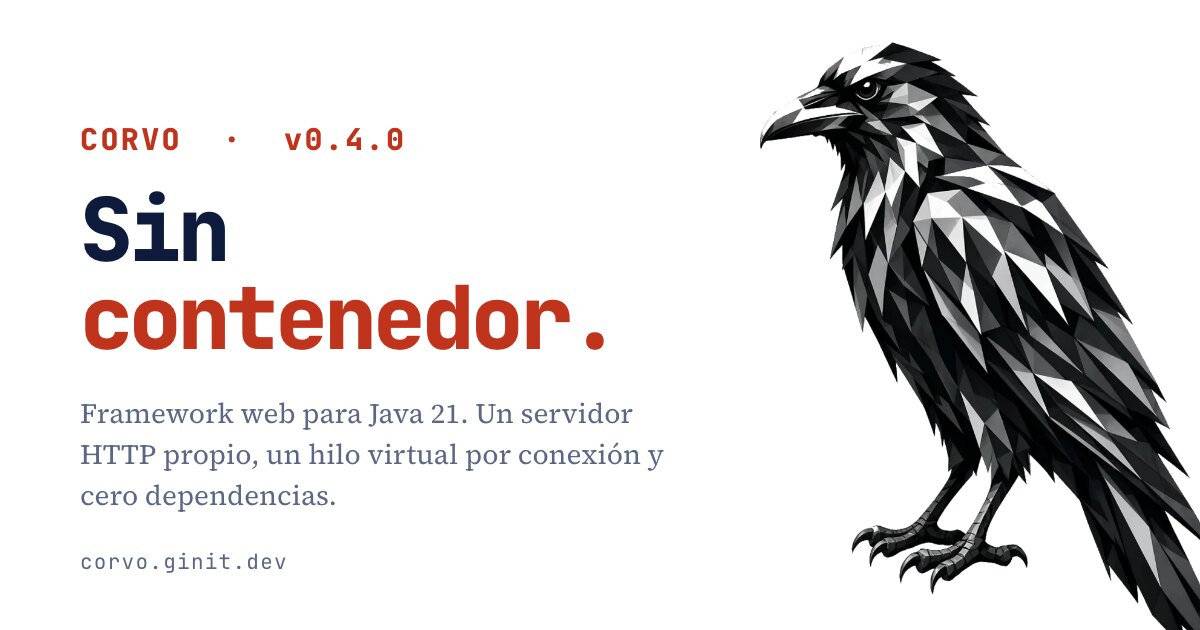
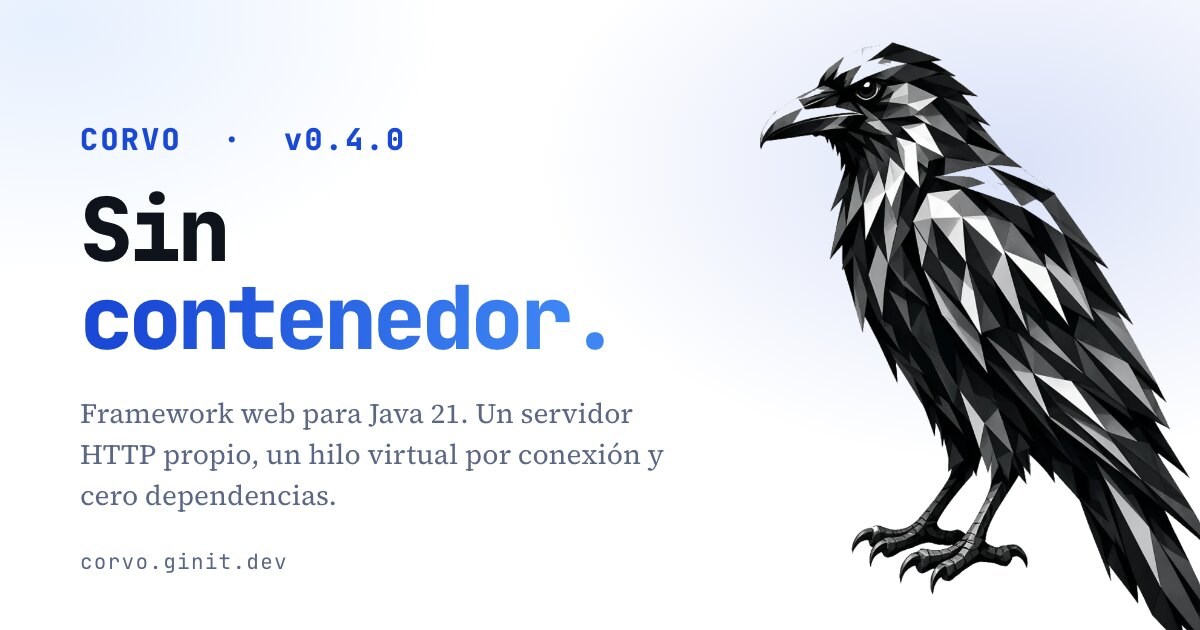
feat(sitio): color en toda la página, acento cobalto y el cuervo bien posado
El color
--------
Cobalto: #1a49d6 en claro, #5b8dff en oscuro. Y un --acento-2 (#3f86f5 / #7fb4ff) que
existe solo para los degradados — un degradado de un color a sí mismo aclarado se ve
sucio; con dos tonos vecinos de verdad el titular tiene profundidad.

La tinta baja de azul marino (#0e1b3d) a casi negro (#0f141c). Con un acento azul, una
tinta azul marino se le confunde y el acento deja de acentuar.

7,08x sobre blanco y 6,70x sobre negro. --acento-2 se queda en 3,54x, que solo basta
para texto grande: por eso aparece únicamente en degradados sobre el titular, las cifras
y reglas decorativas, nunca en texto corrido.

Que la página no sea blanco sobre blanco
----------------------------------------
Halo tras el ave, titular y cifras en degradado, botón lleno con sombra del propio color
—una sombra gris debajo de un botón de color lo ensucia—, y la barra con un filo teñido.
Todo se apoya en los dos tokens: ninguna regla trae su color escrito a mano.

El borde recto que se veía
--------------------------
El recorte horizontal pasa de .portada a html. En la portada, el corte caía justo en el
borde de .marco y dejaba una línea recta atravesando el ave y el degradado. Por lo mismo
el halo sale a ancho de ventana en vez de quedarse dentro del marco: si se queda dentro,
su borde cae donde acaba el contenido y se ve el canto del degradado.

clip y no hidden, arriba igual que abajo: hidden haría de la raíz un contenedor de
desplazamiento y rompería el sticky de la barra.
[…]

diff --git a/frontend/src/estilo.css b/frontend/src/estilo.css
@@ -22,22 +22,25 @@
 :root {
   --papel: #ffffff;
   --panel: #f4f6fa;
-  --tinta: #0e1b3d;
+  --tinta: #0f141c;
   --apagado: #5b6784;
-  --acento: #c0341d;
-  --linea: rgba(14, 27, 61, .14);
+  --acento: #1a49d6;
+  /* El segundo acento existe para los degradados. Un degradado de un color a sí mismo
+     aclarado se ve sucio; con dos tonos vecinos de verdad el titular tiene profundidad. */
+  --acento-2: #3f86f5;
+  --linea: rgba(15, 20, 28, .14);
   --mono: "JetBrains Mono", ui-monospace, SFMono-Regular, Menlo, monospace;
   --serif: "Source Serif", Georgia, "Times New Roman", serif;
 }
 @media (prefers-color-scheme: dark) {
   :root:not([data-tema="claro"]) {
     --papel: #000000; --panel: #0d1424; --tinta: #eaf0fa;
-    --apagado: #93a0bc; --acento: #ff6a4d; --linea: rgba(234, 240, 250, .16);
+    --apagado: #93a0bc; --acento: #5b8dff; --acento-2: #7fb4ff; --linea: rgba(234, 240, 250, .16);
   }
 }
 :root[data-tema="oscuro"] {
   --papel: #000000; --panel: #0d1424; --tinta: #eaf0fa;
-  --apagado: #93a0bc; --acento: #ff6a4d; --linea: rgba(234, 240, 250, .16);
+  --apagado: #93a0bc; --acento: #5b8dff; --acento-2: #7fb4ff; --linea: rgba(234, 240, 250, .16);
 }
 
 * { box-sizing: border-box; }
@@ -146,20 +149,27 @@ pre { overflow-x: auto; max-width: 100%; }
 /* Grabado de François-Nicolas Martinet (1731-1800), lámina 495 de la Histoire Naturelle des
    Oiseaux de Buffon. Dominio público. Va como máscara sobre var(--tinta): un solo archivo
    sirve para claro y para oscuro porque el color lo pone el tema. */
-/* overflow-x: clip y no hidden: `hidden` convertiría la portada en un contenedor de
-   desplazamiento y rompería el `position: sticky` de la barra. `clip` recorta y ya.
-   Hace falta porque el ave sobresale a propósito por la derecha, y sin recorte esos
-   píxeles ensanchan el documento entero en el teléfono. */
-.portada { position: relative; overflow-x: clip; overflow-y: visible; }
+/* El recorte se hace arriba del todo, en la raíz, y no en la portada.
+
+   Recortando en la portada, el corte caía justo en el borde de `.marco` —a 78 rem del
+   centro— y dejaba una línea recta y visible atravesando el ave y el degradado. Aquí el
+   documento no se ensancha igual, y no hay ningún canto que se vea.
+
+   `clip` y no `hidden`: `hidden` convertiría la raíz en contenedor de desplazamiento y
+   rompería el `position: sticky` de la barra. */
+html { overflow-x: clip; }
+.portada { position: relative; }
 
 /* La escena: aquí vive la perspectiva, y el hijo es el que gira dentro de ella. Si la
    perspectiva se pusiera en el mismo elemento que rota, el giro sería plano — una perspective
    solo afecta a los descendientes. */
 .cuervo {
   position: absolute;
-  right: -1.5rem;
-  top: 1.5rem;
-  width: clamp(14rem, 26vw, 23rem);
+  right: 0;
+  top: 1rem;
+  /* Dentro del ancho del contenido, no sobresaliendo: así no hay nada que recortar y el ave
+     no aparece rebanada por la derecha. */
+  width: clamp(15rem, 31vw, 27rem);
   perspective: 900px;
   pointer-events: none;
   z-index: 0;
@@ -180,11 +190,32 @@ pre { overflow-x: auto; max-width: 100%; }
                       color-mix(in srgb, var(--tinta) 30%, transparent));
   /* La cola llega justo al borde inferior del grabado, así que sin esto el ave termina en un
      corte recto. Se disuelve en el papel y parece que sigue más abajo. */
-  -webkit-mask-image: linear-gradient(to bottom, #000 78%, transparent 99%);
-          mask-image: linear-gradient(to bottom, #000 78%, transparent 99%);
+  -webkit-mask-image: linear-gradient(to bottom, #000 82%, transparent 100%);
+          mask-image: linear-gradient(to bottom, #000 82%, transparent 100%);
   animation: cuervo-entra 1s cubic-bezier(.16, 1, .3, 1) both,
              cuervo-flota 7s ease-in-out 1s infinite;
 }
+
+/* El suelo. Una elipse difuminada bajo las patas: sin ella el ave está pegada al papel y
+   flota; con ella se posa. Va detrás de la figura y se estrecha cuando el ave sube en la
+   flotación, que es lo que hace una sombra de verdad. */
+.cuervo::after {
+  content: "";
+  position: absolute;
+  left: 22%; right: 14%;
+  bottom: 4%;
+  height: 2.6rem;
+  z-index: -1;
+  border-radius: 50%;
+  background: radial-gradient(closest-side,
+    color-mix(in srgb, var(--tinta) 26%, transparent) 0%, transparent 78%);
+  animation: cuervo-sombra 7s ease-in-out 1s infinite;
+}
+@keyframes cuervo-sombra {
+  0%, 100% { transform: scale(1); opacity: 1; }
+  50%      { transform: scale(.9); opacity: .72; }
+}
+@media (prefers-reduced-motion: reduce) { .cuervo::after { animation: none; } }
 
 /* Entra planeando: baja un poco, se endereza y se acerca. Un fade suelto no dice nada; esto
    sugiere que el ave se posa. */
@@ -205,13 +236,16 @@ pre { overflow-x: auto; max-width: 100%; }
    existir solo en pantallas grandes. */
 @media (max-width: 62rem) {
   .cuervo {
-    right: -8%;
+    right: -6%;
     top: -1rem;
-    width: 58%;
+    width: 60%;
     opacity: .13;
     z-index: -1;
   }
   .cuervo-figura { filter: none; }
+  .cuervo::after { display: none; }   /* una marca de agua no proyecta sombra */
+  /* Aquí sí sobresale a propósito, y aquí sí se recorta. */
+  .portada { overflow-x: clip; overflow-y: visible; }
   .portada > :not(.cuervo) { position: relative; z-index: 1; }
 }
 
@@ -411,28 +445,50 @@ ul.prosa li { margin-bottom: .45rem; }
 
 /* ─── terminal ─── */
 
-.terminal { border: 1px solid var(--linea); border-radius: 6px; overflow: hidden;
-  background: #0b1020; margin: 2.2rem 0 1rem; max-width: 46rem; }
+/* La terminal tenía sus seis colores escritos a mano y salía negra también en el tema claro:
+   un agujero oscuro en medio de una página blanca. Ahora usa sus propios tokens, redefinidos
+   en cada tema como el resto de la hoja. */
+.terminal {
+  --term-fondo: #f7f9fc;
+  --term-barra: #eaeef6;
+  --term-borde: rgba(15, 20, 28, .12);
+  --term-texto: #2b3653;
+  --term-orden: #0f141c;
+  --term-tenue: #616c87;
+
+  border: 1px solid var(--term-borde); border-radius: 6px; overflow: hidden;
+  background: var(--term-fondo); margin: 2.2rem 0 1rem; max-width: 46rem;
+}
+@media (prefers-color-scheme: dark) {
+  :root:not([data-tema="claro"]) .terminal {
+    --term-fondo: #0b1020; --term-barra: #141a2e; --term-borde: rgba(255, 255, 255, .1);
+    --term-texto: #c8d2e8; --term-orden: #eaf0fa; --term-tenue: #7c88a8;
+  }
+}
+:root[data-tema="oscuro"] .terminal {
+  --term-fondo: #0b1020; --term-barra: #141a2e; --term-borde: rgba(255, 255, 255, .1);
+  --term-texto: #c8d2e8; --term-orden: #eaf0fa; --term-tenue: #7c88a8;
+}
 .terminal-barra { display: flex; align-items: center; gap: .8rem;
-  padding: .5rem .8rem; background: #141a2e; border-bottom: 1px solid rgba(255,255,255,.08); }
+  padding: .5rem .8rem; background: var(--term-barra); border-bottom: 1px solid var(--term-borde); }
 .terminal-barra .luces { display: flex; gap: .35rem; }
-.terminal-barra .luces i { width: 10px; height: 10px; border-radius: 50%; background: #3a4159; }
+.terminal-barra .luces i { width: 10px; height: 10px; border-radius: 50%; background: var(--term-tenue); }
 .terminal-barra .luces i:nth-child(1) { background: #ff5f57; }
 .terminal-barra .luces i:nth-child(2) { background: #febc2e; }
 .terminal-barra .luces i:nth-child(3) { background: #28c840; }
-.terminal-barra .ruta { flex: 1; font-family: var(--mono); font-size: .72rem; color: #7c88a8; }
+.terminal-barra .ruta { flex: 1; font-family: var(--mono); font-size: .72rem; color: var(--term-tenue); }
 .terminal-barra button { font-family: var(--mono); font-size: .66rem; letter-spacing: .08em;
-  text-transform: uppercase; border: 1px solid rgba(255,255,255,.16); background: transparent;
-  color: #7c88a8; padding: .22rem .55rem; border-radius: 4px; cursor: pointer; }
-.terminal-barra button:hover:not(:disabled) { color: #fff; border-color: rgba(255,255,255,.4); }
+  text-transform: uppercase; border: 1px solid var(--term-borde); background: transparent;
+  color: var(--term-tenue); padding: .22rem .55rem; border-radius: 4px; cursor: pointer; }
+.terminal-barra button:hover:not(:disabled) { color: var(--acento); border-color: var(--acento); }
 .terminal-barra button:disabled { opacity: .4; cursor: default; }
 
 .terminal-pantalla { margin: 0; padding: 1rem 1.1rem; min-height: 17rem;
   font-family: var(--mono); font-size: .78rem; line-height: 1.75;
-  color: #c8d2e8; white-space: pre-wrap; word-break: break-word; }
-.linea-orden { color: #eaf0fa; }
+  color: var(--term-texto); white-space: pre-wrap; word-break: break-word; }
+.linea-orden { color: var(--term-orden); }
 .linea-orden .senal { color: var(--acento); font-weight: 700; }
-.linea-salida { color: #7c88a8; }
+.linea-salida { color: var(--term-tenue); }
 .cursor { display: inline-block; width: .55em; height: 1.05em; background: var(--acento);
   vertical-align: text-bottom; margin-left: 1px; }
 @media (prefers-reduced-motion: no-preference) {
@@ -502,3 +558,106 @@ ul.prosa li { margin-bottom: .45rem; }
   opacity: .65;
 }
 .atajo.todo { border-style: solid; border-color: var(--acento); color: var(--acento); }
+
+
+/* ─── color: que la página deje de ser blanco sobre blanco ─── */
+
+/* Todo lo de aquí abajo se apoya en var(--acento) y var(--acento-2). Cambiar la marca sigue
+   siendo cambiar esas dos líneas: ninguna regla trae su propio color escrito a mano. */
+
+/* Un halo detrás del ave. Va en la portada y no en la figura para que el color quede debajo
+   del texto también, y la esquina superior derecha deje de ser un vacío blanco. */
+/* El halo sale de `.marco` y ocupa el ancho de la ventana: si se queda dentro, su borde
+   cae donde acaba el contenido y se ve el canto del degradado. Los radiales mueren en
+   transparente por su cuenta, así que no hace falta recortarlo en ningún lado. */
+.portada::before {
+  content: "";
+  position: absolute;
+  top: -7rem;
+  left: 50%;
+  width: 100vw;
+  margin-left: -50vw;
+  height: 52rem;
+  pointer-events: none;
+  z-index: -2;
+  background:
+    radial-gradient(46% 58% at 74% 26%,
+      color-mix(in srgb, var(--acento) 17%, transparent) 0%, transparent 70%),
+    radial-gradient(40% 50% at 14% 6%,
+      color-mix(in srgb, var(--acento-2) 12%, transparent) 0%, transparent 72%);
+}
+
+/* El titular en degradado. Es el elemento más grande de la página; teñirlo de un solo plano
+   era desaprovecharlo. background-clip:text necesita color transparente, y el fallback es el
+   color sólido de la línea de arriba, que ya estaba bien. */
+.titular span {
+  background: linear-gradient(102deg, var(--acento) 12%, var(--acento-2) 88%);
+  -webkit-background-clip: text;
+          background-clip: text;
+  -webkit-text-fill-color: transparent;
+  color: var(--acento);
+}
+
+/* Las cifras: el número en color y una regla superior teñida. Antes eran tres números negros
+   sobre blanco con una raya gris, que es exactamente lo que nadie mira. */
+.cifra b {
+  background: linear-gradient(160deg, var(--acento) 0%, var(--acento-2) 100%);
+  -webkit-background-clip: text;
+          background-clip: text;
+  -webkit-text-fill-color: transparent;
+  color: var(--acento);
+}
+.cifras {
+  position: relative;
+  padding-top: 2.2rem;
+}
+.cifras::before {
+  content: "";
+  position: absolute; inset: 0 0 auto 0; height: 2px;
+  background: linear-gradient(90deg, var(--acento), var(--acento-2) 42%, transparent 92%);
+}
+
+/* El botón lleno: degradado y una sombra del propio color. Una sombra gris debajo de un botón
+   de color lo ensucia; teñirla lo levanta del papel. */
+.boton.principal {
+  background: linear-gradient(135deg, var(--acento) 0%, var(--acento-2) 130%);
+  box-shadow: 0 6px 18px -6px color-mix(in srgb, var(--acento) 55%, transparent);
+}
+.boton.principal:hover {
+  box-shadow: 0 10px 24px -8px color-mix(in srgb, var(--acento) 70%, transparent);
+}
+
+/* La franja del contenido: el bloque de la orden y la terminal sobre papel teñido, para
+   partir la página en dos zonas en vez de un rollo blanco continuo. */
+.orden {
+  background:
+    linear-gradient(180deg,
+      color-mix(in srgb, var(--acento) 6%, var(--papel)) 0%,
+      var(--panel) 100%);
+  border-color: color-mix(in srgb, var(--acento) 22%, var(--linea));
+}
+.orden .senal { color: var(--acento); }
+
+/* El sello «Nuevo» también en degradado, que es lo primero que se lee. */
+.antetitulo .nuevo {
+  background: linear-gradient(120deg, var(--acento), var(--acento-2));
+}
+
+/* Fichas y módulos: el estado marcado se nota más, y el que viene arrastrado se distingue
+   del que elegiste a propósito. */
+.atajo.activo {
+  background: linear-gradient(120deg, var(--acento), var(--acento-2));
+  border-color: transparent;
+}
+.modulo.marcado { background: color-mix(in srgb, var(--acento) 9%, var(--papel)); }
+.bajar .boton { border-color: transparent; }
+
+/* La barra superior, con un filo de color abajo: separa sin meter otra línea gris. */
+.barra { border-bottom-color: color-mix(in srgb, var(--acento) 20%, var(--linea)); }
+
+/* Los títulos de las páginas interiores llevaban el mismo negro que el cuerpo. */
+.titulo-pagina::after {
+  content: "";
+  display: block; width: 3.5rem; height: 3px; margin-top: .7rem;
+  background: linear-gradient(90deg, var(--acento), var(--acento-2));
+}

diff --git a/LEEME.md b/LEEME.md
@@ -159,17 +159,38 @@ Twitter no ejecutan JavaScript. Una etiqueta puesta al montar un componente no l
 
 ### El color
 
-`--acento` es **bermellón** — `#c0341d` en claro, `#ff6a4d` en oscuro. Antes era magenta
-(`#c2136a` / `#ff3d9a`).
+**Cobalto.** `--acento` es `#1a49d6` en claro y `#5b8dff` en oscuro; `--acento-2` (`#3f86f5` /
+`#7fb4ff`) existe solo para los degradados —un degradado de un color a sí mismo aclarado se ve
+sucio, y con dos tonos vecinos de verdad el titular tiene profundidad.
 
-Los dos pasan AA de sobra (5,8× y 5,6× sobre blanco), así que la decisión no era de contraste sino
-de qué dice el color. El magenta es un acento de producto, y choca con un grabado en blanco y
-negro y una tipografía con serifas. El bermellón es tinta y lacre: acompaña al ave en vez de
-competir con ella, y no cae en el azul o el morado de todos los sitios de herramientas.
+Pasó por magenta (`#c2136a`) y por bermellón (`#c0341d`) antes de esto.
 
-Está definido tres veces —`:root`, `prefers-color-scheme` y `[data-tema]`— para que el conmutador
-gane en las dos direcciones. Cambiarlo son esas tres líneas de `estilo.css`, más recolorear el
-favicon, que lleva el color quemado en su paleta.
+7,08× sobre blanco y 6,70× sobre negro. `--acento-2` se queda en 3,54×, que **solo** basta para
+texto grande: por eso aparece únicamente en degradados sobre el titular, las cifras y reglas
+decorativas, nunca en texto corrido.
+
+La tinta pasó de azul marino (`#0e1b3d`) a casi negro (`#0f141c`). Con un acento azul, una tinta
+azul marino se le confunde y el acento deja de acentuar.
+
+Los tokens están definidos tres veces —`:root`, `prefers-color-scheme` y `[data-tema]`— para que
+el conmutador gane en las dos direcciones. Cambiar la marca son esas líneas, más recolorear el
+favicon y la tarjeta de enlace, que llevan el color quemado dentro.
+
+### Que la página no sea blanco sobre blanco
+
+Todo se apoya en esos dos tokens; ninguna regla trae su propio color escrito a mano:
+
+- Un halo detrás del ave, **a ancho de ventana**. Dentro de `.marco` su borde caía donde acaba el
+  contenido y se veía el canto recto del degradado atravesando la página.
+- El titular y las cifras en degradado con `background-clip: text`.
+- El botón lleno con degradado y sombra **del propio color**: una sombra gris debajo de un botón
+  de color lo ensucia.
+- La terminal ya no es un agujero negro en medio de una página blanca. Tenía seis colores escritos
+  a mano; ahora usa sus propios tokens y **sigue al tema** como el resto.
+
+El recorte horizontal se hace en `html`, no en la portada. Recortando en la portada, el corte caía
+en el borde de `.marco` y dejaba una línea recta visible. `clip` y no `hidden`: `hidden` haría de
+la raíz un contenedor de desplazamiento y rompería el `sticky` de la barra.
 
 ### El cuervo de la portada
 
